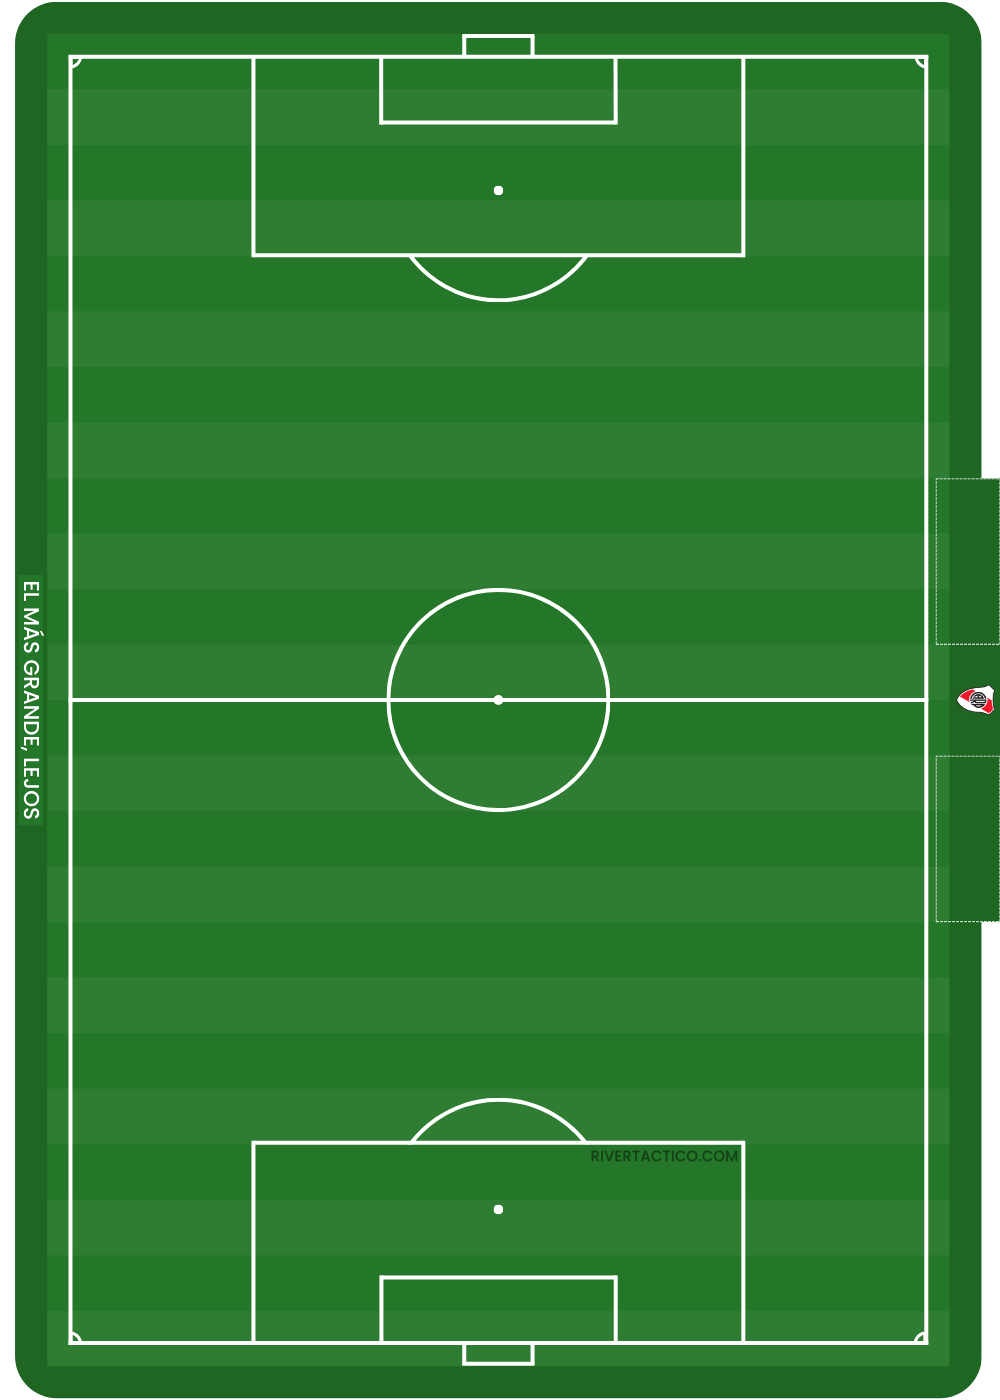
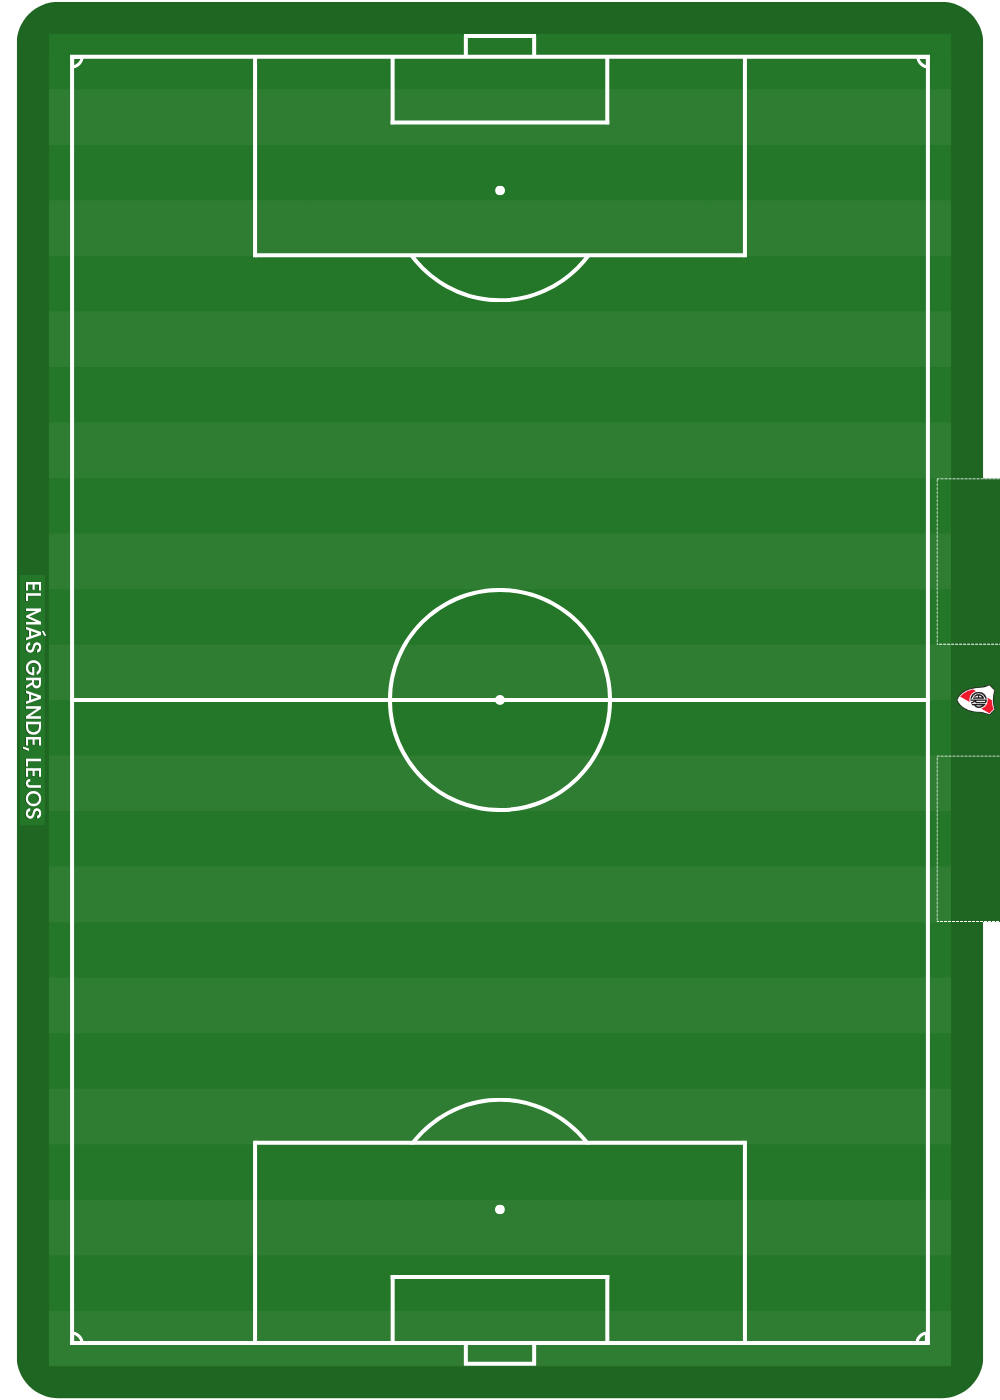
Elimino botón de ocultar nombres y centro la cancha

diff --git a/script.js b/script.js
@@ -1486,16 +1486,6 @@ document.querySelectorAll('.player-list').forEach(lista => {
   });
 });
 
-// --- LÓGICA PARA MOSTRAR/OCULTAR NOMBRES EN LA CANCHA ---
-const btnToggleNombres = document.getElementById('btn-toggle-nombres');
-
-if (btnToggleNombres) {
-  btnToggleNombres.addEventListener('click', () => {
-    // Le ponemos o sacamos la clase al body
-    document.body.classList.toggle('hide-names');
-  });
-}
-
 // --- LÓGICA DEL INTERRUPTOR DE SUPLENTES ---
 const toggleSuplentes = document.getElementById('toggle-suplentes');
 

diff --git a/index.html b/index.html
@@ -97,11 +97,6 @@
           <svg class="icon-moon" xmlns="http://www.w3.org/2000/svg" viewBox="0 0 24 24" fill="none" stroke="currentColor" stroke-width="2" stroke-linecap="round" stroke-linejoin="round"><path d="M21 12.79A9 9 0 1 1 11.21 3 7 7 0 0 0 21 12.79z"></path></svg>
           <svg class="icon-sun" xmlns="http://www.w3.org/2000/svg" viewBox="0 0 24 24" fill="none" stroke="currentColor" stroke-width="2" stroke-linecap="round" stroke-linejoin="round" style="display: none;"><circle cx="12" cy="12" r="5"></circle><line x1="12" y1="1" x2="12" y2="3"></line><line x1="12" y1="21" x2="12" y2="23"></line><line x1="4.22" y1="4.22" x2="5.64" y2="5.64"></line><line x1="18.36" y1="18.36" x2="19.78" y2="19.78"></line><line x1="1" y1="12" x2="3" y2="12"></line><line x1="21" y1="12" x2="23" y2="12"></line><line x1="4.22" y1="19.78" x2="5.64" y2="18.36"></line><line x1="18.36" y1="5.64" x2="19.78" y2="4.22"></line></svg>
         </button>
-        
-        <button class="icon-btn" id="btn-toggle-nombres" title="Ocultar Nombres">
-          <svg class="icon-eye" xmlns="http://www.w3.org/2000/svg" viewBox="0 0 24 24" fill="none" stroke="currentColor" stroke-width="2" stroke-linecap="round" stroke-linejoin="round"><path d="M1 12s4-8 11-8 11 8 11 8-4 8-11 8-11-8-11-8z"></path><circle cx="12" cy="12" r="3"></circle></svg>
-          <svg class="icon-eye-off" style="display: none;" xmlns="http://www.w3.org/2000/svg" viewBox="0 0 24 24" fill="none" stroke="currentColor" stroke-width="2" stroke-linecap="round" stroke-linejoin="round"><path d="M17.94 17.94A10.07 10.07 0 0 1 12 20c-7 0-11-8-11-8a18.45 18.45 0 0 1 5.06-5.94M9.9 4.24A9.12 9.12 0 0 1 12 4c7 0 11 8 11 8a18.5 18.5 0 0 1-2.16 3.19m-6.72-1.07a3 3 0 1 1-4.24-4.24"></path><line x1="1" y1="1" x2="23" y2="23"></line></svg>
-        </button>
 
         <button class="icon-btn" id="btn-toggle-fotos" title="Alternar Fotos/Camisetas">
           <!-- Ícono de Persona (Activo por defecto) -->

diff --git a/styles.css b/styles.css
@@ -698,11 +698,6 @@ body.dark-mode .source-tab.active { background: var(--river-red); color: white; 
   
 }
 
-/* --- LÓGICA DE OCULTAR NOMBRES --- */
-body.hide-names .token-name { display: none !important; }
-body.hide-names .icon-eye { display: none !important; }
-body.hide-names .icon-eye-off { display: block !important; }
-
 /* --- INTERRUPTOR DE SUPLENTES (SWITCH) --- */
 .toggle-switch-container {
   display: flex;